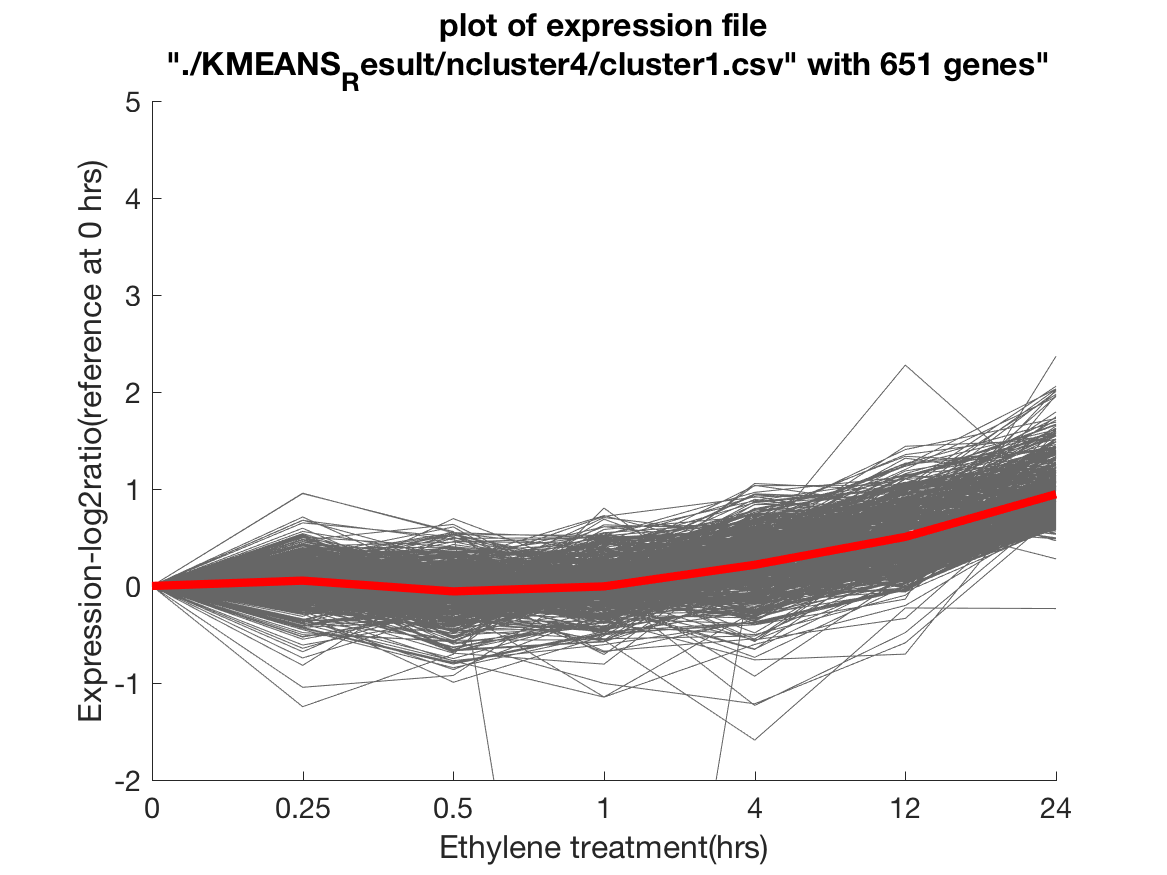
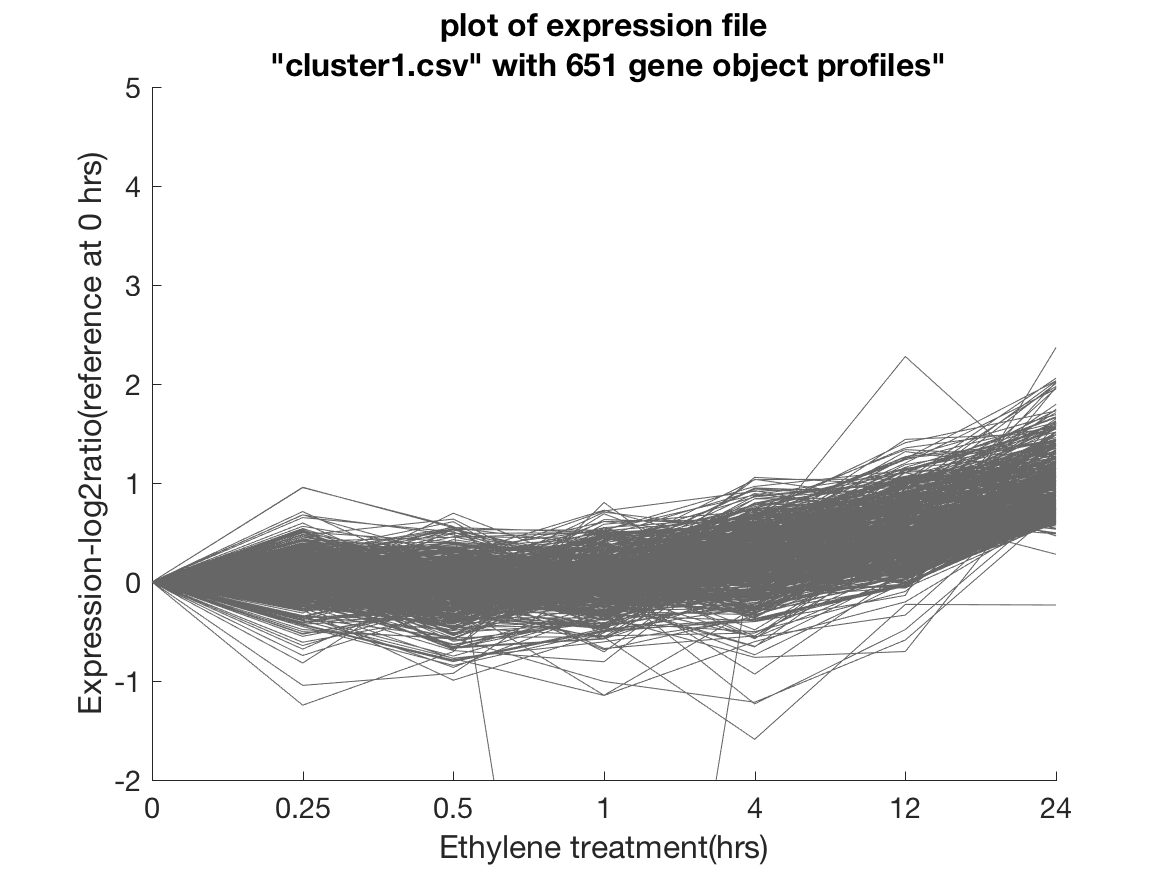
KMEANSFOURPATTERNS

diff --git a/KMEANS_Result/ncluster4/f_plotTable2.m b/KMEANS_Result/ncluster4/f_plotTable2.m
@@ -1,0 +1,292 @@
+function [ fig, ngene, expr,plotData, mplotData, agis, agis_new ] = ...
+    f_plotTable2( csv, transfile, varargin )
+warning('off')
+% #####################################
+% @PGRP
+% Haonan Tong
+% #####################################
+
+% [ fig, ngene, expr, agis ] = plotTable( csv, isVariableNames )
+% fig - figure of profiles in csv file
+% ngene - # of genes in the file
+% expr - profiles of genes in RPKM at each time point
+% agis - gene list
+% csv - exel file with 3 replicates for each time point, totally 6 time
+% point
+%       Example of .csv file opened in MS Excell might look as follows:
+%       |    AIG    |  R1T1  |  R2T1  |  R3T1  | ... 
+%       |AT1G01010.1| 1.2691 | 1.7789 | 3.0794 | ...
+%       |    ...    |  ...   |  ...   |   ...  | ...
+%       |AT5G67360.1| 150.93 | 243.19 |   ...  | ...
+%       |    ...    |  ...   |  ...   |   ...  | ... 
+% transfile - Translation file could be empty but if not has to have Variable Names.
+%       Example of Translation file opened in MS Excell might look as follows:
+%       |    ORF    | OtherNames |
+%       | AT1G66340 |    ETR1    |
+%       |    ...    |    ...     |
+%       | AT3G20770 |    EIN3    |
+%       |    ...    |    ...     |
+% Plot Pattern Selection
+%   'Mean Plot' - log2 ratio plot of profile for each gene and mean of the
+%           gene list
+%   'Normalized' - Normalized each profile of gene corresponds to the mean.
+%   'Network Analysis log' - plot profile of each genes on a single
+%       figure and take log ratio onto the initial time point ; 
+%   'Plot Individually log' - plot profile of each genes individually and take log ratio onto the initial time
+%   'Plot Individually' - plot profile of each genes individually in RPKM unit 
+%   'No Variable Name' - Expression Profile Table not contains Variable
+%                   Names
+if nargin < 2
+    fprintf('#####################################\n');
+
+    fprintf('\ntwo parameter required for the function\n');
+    fprintf(' path of .csv file as the first parameter\n');
+    fprintf(' if the file contains VariableNames as second parameter\n');
+    fprintf(' example:  [ fig, ngene, expr, agis ] = plotTable(''kat-rpkm-expression.csv'', 1)\n\n');
+    fprintf('#####################################\n');
+
+    return;
+end
+
+
+
+
+% fprintf('Preparing ploting\n');
+
+% csv_token = strtok(csv,'.');
+% segments = string(0);
+% remain = csv_token;
+% while (remain ~= "")
+%    [token,remain] = strtok(remain, '/');
+%    segments = [segments ; token];
+% end
+% csv_token = segments(end);
+
+[pathstr,csv_token,~] = fileparts(csv);
+if isempty(pathstr)
+    dir_Figures = 'Figures';
+else
+    dir_Figures = strcat(pathstr,'/Figures');
+end
+mkdir(dir_Figures);
+ 
+% fig = cell(nargin-2);
+counter = 0;
+
+if ~istable(csv)
+    %% Read File
+    % =========  Read File ===========
+    % fprintf(sprintf(' Reading file %s...\n',csv))
+    if any(strcmp(varargin,'No Variable Name'))
+        isVariableNames = 0;
+    else
+        isVariableNames = 1;
+    end
+
+    if isVariableNames == 1
+        T = readtable(csv,...
+         'ReadVariableNames',true);
+    else
+        T = readtable(csv,...
+         'ReadVariableNames',false);
+    end
+else
+    T = csv;
+end
+
+if isempty(T)
+    fprintf(' File %s is empty!\n',csv);
+    ngene = 0;
+    fig = [];
+    return
+end
+
+
+ % summary(T);
+Data = table2array(T(:,2:end));
+agis = table2array(T(:,1));
+    
+if ~isempty(transfile)
+   agis_new = f_tranlate(agis,transfile);
+else
+    agis_new = agis;
+end
+
+[ngene,~] = size(Data);
+
+% fprintf(' Calucating Expression Profiles at each time point...\n')
+expr = [];
+for i = 1:3:21%7 time points; 3 replicates;
+    expr = [expr sum(Data(:,i:i+2),2)];
+end
+expr = 1/3*expr;
+
+expr_bar = mean(expr,2);
+expr_n_m = expr - repmat(expr_bar,1,7);
+expr_n_mv = expr_n_m./repmat(sqrt(var(expr_n_m,0,2)),1,7);
+
+
+% fprintf(' Calucating log ratio expression pattern at each time point...\n')
+tmp = [];
+for i = 2:7
+    tmp = [tmp log2( expr(:,i)./expr(:,1) )];
+end
+plotData = tmp;
+plotData = [ zeros(size(plotData,1),1) plotData ];
+mplotData = mean(plotData);
+
+if nargin == 2
+    fig = [];
+    return
+end
+
+% colors =  ['b' 'r' 'k' 'g' 'c' 'y' 'm' 'w' ];
+
+%% Plot
+% fprintf(' Preparing for plotting...\n')
+% =========  'Mean Plot' ===========
+if any(strcmp(varargin,'Mean Plot'))
+    counter = counter + 1;
+    % fprintf(' Calculating mean and visualizing...\n')
+
+    %% Plot
+    fig{counter} = figure;x = 0 : 1 : 6;
+    hold on;axis([0 6 -2 5])
+    plot(x, plotData','Color','[.4,.4,.4]');
+    % plot(x,mean( plotData),'Color','r','LineWidth',4);
+    xticks(0:6)
+    xticklabels({'0','0.25','0.5','1','4','12','24'})
+    title(sprintf...
+        ( 'plot of expression file\n "%s" with %d gene object profiles"',...
+        csv, ngene))
+    xlabel('Ethylene treatment(hrs)');
+    ylabel('Expression-log2ratio(reference at 0 hrs)');
+    set(gca,'fontsize',14);
+    
+
+    print(fig{counter},sprintf('%s/%s-Mean-Plot',dir_Figures,csv_token),'-dpng');
+    % fprintf(' Success!\n')
+    % fprintf('#####################################\n');
+
+end
+
+
+% =========  'Normalized' ===========
+% Zero mean standard deviation
+if any(strcmp(varargin,'Normalized'))
+    counter = counter + 1;
+
+    %% Plot
+    fig{counter} = figure;x = 0 : 1 : 6;
+    hold on;axis([0 6 -3 3])
+    plot(x, expr_n_mv');
+    %plot(x,mean( expr_n_mv),'Color','r','LineWidth',4);
+    xticks(0:6)
+    xticklabels({'0','0.25','0.5','1','4','12','24'})
+    title(sprintf...
+        ( 'plot of expression file\n "%s" with %d gene object profiles"',...
+        csv, ngene))
+    xlabel('Ethylene treatment(hrs)');
+    ylabel('Normalized');
+    set(gca,'fontsize',14);
+    grid on
+
+    print(fig{counter},sprintf('%s/%s-Normalized',dir_Figures,csv_token),'-dpng');
+
+end
+% =========  'Network Analysis log' ===========
+if any(strcmp(varargin,'Network Analysis log'))
+    counter = counter + 1;
+    % fprintf(' Analyzing toy network and visualizing...\n')
+
+    fig{counter} = figure; x = 0:6;
+    hold on;axis([0 6 -2 5]);grid on;
+    for i = 1 : ngene
+       plot(x, plotData(i,:),'LineWidth',2);
+    end
+    legend(agis_new,'Location','best')
+    xticks(0:6)
+    xticklabels({'0','0.25','0.5','1','4','12','24'})
+    title(sprintf( 'Network Analysis of expression file\n "%s"', csv))
+    xlabel('Ethylene treatment(hrs)');
+    ylabel('Expression-log2ratio(reference at 0 hrs)');
+    set(gca,'fontsize',14);
+    
+    print(fig{counter},'./Figures/Network-Analysis-log','-dpng');
+
+end
+
+% =========  'Plot Individually log' ===========
+if any(strcmp(varargin,'Plot Individually log'))
+    counter = counter + 1;
+    % fprintf(' Individually plot log ratio figures...\n')
+    
+    fig_ind = cell(ngene);
+    
+    for i = 1 : ngene
+        fig_ind{i} = figure; x = 0:6;
+        hold on;axis([0 6 -2 5])
+        plot(x, plotData(i,:),'LineWidth',2);
+        legend(agis_new{i},'Location','best')
+        xticks(0:6)
+        xticklabels({'0','0.25','0.5','1','4','12','24'})
+        title(sprintf( 'Individually analysis of gene\n "%s"', agis{i}))
+        xlabel('Ethylene treatment(hrs)');
+        ylabel('Expression-log2ratio(reference at 0 hrs)');
+        set(gca,'fontsize',14);
+        
+        print(fig_ind{i},sprintf('./Figures/Network-Analysis-log%d',i),'-dpng');
+    end
+    fig{counter} = fig_ind;
+end
+
+% =========  'Plot Individually' ===========
+if any(strcmp(varargin,'Plot Individually'))
+    counter = counter + 1;
+    % fprintf(' Individually plot figures...\n')
+    
+    fig_ind = cell(ngene);
+    for i = 1 : ngene
+        fig_ind{i} = figure; x = 0:6;
+        hold on;grid on
+        plot(x, expr(i,:),'LineWidth',2);
+        for j = x
+            plot(j*ones(1,3), Data(i,3*j+1:3*j+3),'k*')
+        end
+        legend(agis_new{i},'Location','best')
+        xticks(0:6)
+        xticklabels({'0','0.25','0.5','1','4','12','24'})
+        title(sprintf( 'Individually analysis of gene\n "%s"', agis{i}))
+        xlabel('Ethylene treatment(hrs)');
+        ylabel('Expression level(PKRM)');
+        set(gca,'fontsize',14);
+        print(fig_ind{i},sprintf('./Figures/Network-Analysis%d',i),'-dpng');
+    end
+    fig{counter} = fig_ind;
+    fprintf('DONE!\n')
+end
+
+return
+end
+
+
+function [agis_new] = f_tranlate(agis,transfile)
+% Translation file has to have Variable Names.
+%       Example of Translation file opened in MS Excell might look as follows:
+%       |    ORF    | OtherNames |
+%       | AT1G66340 |    ETR1    |
+%       |    ...    |    ...     |
+%       | AT3G20770 |    EIN3    |
+%       |    ...    |    ...     |
+    T_ORF2CNames = readtable(transfile,...
+     'ReadVariableNames',true,'ReadRowNames',true);
+
+    for i = 1 : length(agis)
+        agis{i} = agis{i}(1:9);
+    end
+ 
+    agis_new = T_ORF2CNames(agis,:).OtherNames;
+
+    return
+end
+

diff --git a/KMEANS_Result/ncluster4/cmpDREM.m b/KMEANS_Result/ncluster4/cmpDREM.m
@@ -1,0 +1,18 @@
+myDir = '.';
+myFiles = dir(fullfile(myDir,'cluster*.csv'));
+
+mtrx_mplotData = [];
+for i = 1 : length(myFiles)
+    [ fig, ngene, expr,plotData, mplotData, agis, agis_new ] = ...
+        f_plotTable2( myFiles(i).name, [], 'Mean Plot' );
+    mtrx_mplotData = [ mtrx_mplotData ; mplotData];
+end
+figure;
+plot(mtrx_mplotData','LineWidth',3);
+grid on;
+    xticks(1:7)
+    xticklabels({'0','0.25','0.5','1','4','12','24'})
+    title('Plot mean of four clusters derive by kmeans','FontSize',14)
+    xlabel('Ethylene treatment(hrs)');
+    ylabel('Expression-log2ratio(reference at 0 hrs)');
+    set(gca,'fontsize',14);
